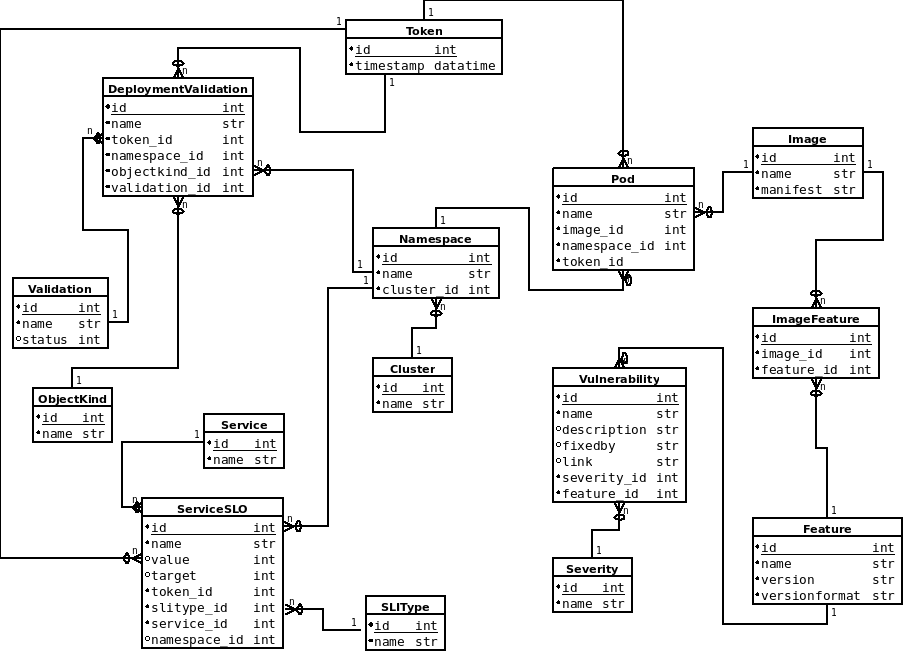
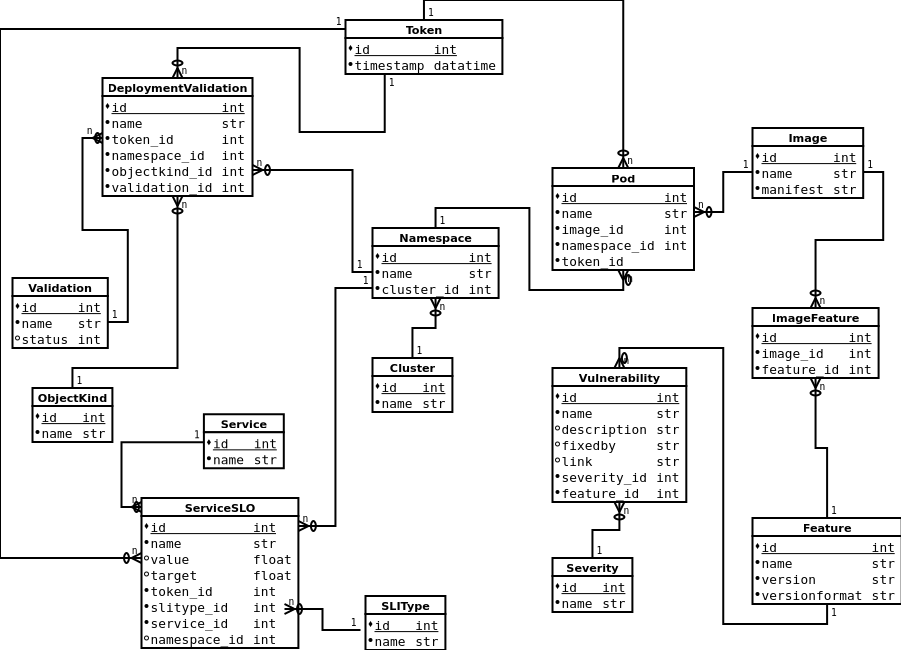
Migrate serviceslo.target and serviceslo.value columns to float (#47)
* ServiceSLO value and target are now floats

* update schema

* create db migration

diff --git a/migrations/versions/8877339046ad_.py b/migrations/versions/8877339046ad_.py
@@ -1,0 +1,52 @@
+"""empty message
+
+Revision ID: 8877339046ad
+Revises: eab8950ce577
+Create Date: 2021-08-05 14:33:17.330232
+
+"""
+from alembic import op
+import sqlalchemy as sa
+
+
+# revision identifiers, used by Alembic.
+revision = '8877339046ad'
+down_revision = 'eab8950ce577'
+branch_labels = None
+depends_on = None
+
+
+def upgrade():
+    # ### commands auto generated by Alembic - please adjust! ###
+    op.alter_column(
+        table_name='serviceslo',
+        column_name='value',
+        nullable=False,
+        type_=sa.Float()
+    )
+
+    op.alter_column(
+        table_name='serviceslo',
+        column_name='target',
+        nullable=False,
+        type_=sa.Float()
+    )
+    # ### end Alembic commands ###
+
+
+def downgrade():
+    # ### commands auto generated by Alembic - please adjust! ###
+    op.alter_column(
+        table_name='serviceslo',
+        column_name='value',
+        nullable=False,
+        type_=sa.Integer()
+    )
+
+    op.alter_column(
+        table_name='serviceslo',
+        column_name='target',
+        nullable=False,
+        type_=sa.Integer()
+    )
+    # ### end Alembic commands ###

diff --git a/dashdotdb/models/dashdotdb.py b/dashdotdb/models/dashdotdb.py
@@ -171,8 +171,8 @@ class ServiceSLO(db.Model):
 
     id = db.Column(db.Integer, primary_key=True)
     name = db.Column(db.String(64), unique=False)
-    value = db.Column(db.Integer, unique=False)
-    target = db.Column(db.Integer, unique=False)
+    value = db.Column(db.Float, unique=False)
+    target = db.Column(db.Float, unique=False)
     slitype_id = db.Column(db.Integer, db.ForeignKey('slitype.id'))
     token_id = db.Column(db.Integer, db.ForeignKey('token.id'))
     service_id = db.Column(db.Integer, db.ForeignKey('service.id'))
